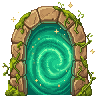
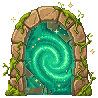
deploy jue 30/07/2026 21:17:10,26

Changed region(s): [[0.2449, 0.2143, 0.7653, 0.9796]]

diff --git a/public/game/farm.js b/public/game/farm.js
@@ -441,7 +441,7 @@ class FarmScene extends Phaser.Scene {
     let best = null, bd = 1e9;
     const all = this.objs.concat(this.plots).concat(this.threats); if (this.portal) all.push(this.portal);
     for (const o of all) {
-      const rad = (o.type === "barn" || o.type === "market" || o.type === "store" || o.type === "cocina") ? 72 : (o.type === "plot" ? 42 : (o.type === "boar" ? 55 : (o.type === "portal" ? 50 : 58)));
+      const rad = (o.type === "barn" || o.type === "market" || o.type === "store" || o.type === "cocina") ? 72 : (o.type === "plot" ? 26 : (o.type === "boar" ? 55 : (o.type === "portal" ? 50 : 58)));   // plot 26: hay que estar encima de la tierra para plantar/cosechar
       const d = Math.hypot(o.cx - this.hero.x, o.by - this.hero.y);
       if (d < rad && d < bd) { bd = d; best = o; }
     }
@@ -1187,7 +1187,7 @@ class FarmScene extends Phaser.Scene {
     // clic-para-interactuar: al llegar cerca del objeto pedido, actuar
     if (this.pendingObj) {
       const po = this.pendingObj;
-      const rad = (po.type === "barn" || po.type === "market" || po.type === "store" || po.type === "cocina") ? 72 : 58;
+      const rad = (po.type === "barn" || po.type === "market" || po.type === "store" || po.type === "cocina") ? 72 : (po.type === "plot" ? 26 : 58);   // al caminar hacia un plot, llegar bien encima antes de actuar
       const d = Math.hypot(po.cx - hero.x, po.by - hero.y);
       if (d < rad) { this.moveTarget = null; this.pendingObj = null; this.interactWith(po); if (this.action) { hero.setDepth(hero.y); return; } }
       else if (!this.moveTarget) this.pendingObj = null;

diff --git a/public/game/boot.js b/public/game/boot.js
@@ -63,7 +63,7 @@ class BootScene extends Phaser.Scene {
     L.push(["tree_stump_leaves", P + "tree_stump_leaves.png"]);
     L.push(["pond", P + "pond.png?v=2"]);
     L.push(["portal", P + "portal.png"]);   // portal al Bosque (frame quieto de respaldo)
-    for (let i = 0; i < 8; i++) L.push(["portal_" + i, P + "portal_" + i + ".png"]);   // espiral girando 360° (8 pasos de 45°)
+    for (let i = 0; i < 8; i++) L.push(["portal_" + i, P + "portal_" + i + ".png?v=2"]);   // espiral girando 360° · v2: gira TODO el vórtice, no solo el círculo central
     // v3: nodos plantados en la tierra + estados dañados (intermedio del cooldown)
     ["node_stone","node_bronze","node_gold","node_diamond","node_netherite"]
       .forEach(k => { L.push([k, P + k + ".png?v=3"]); L.push([k + "_half", P + k + "_half.png"]); });
